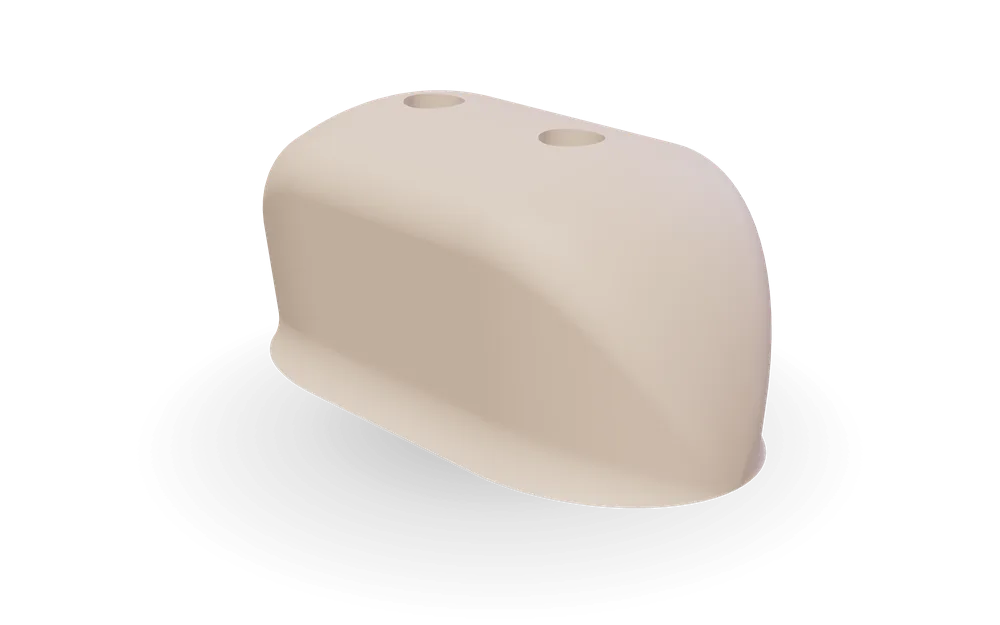
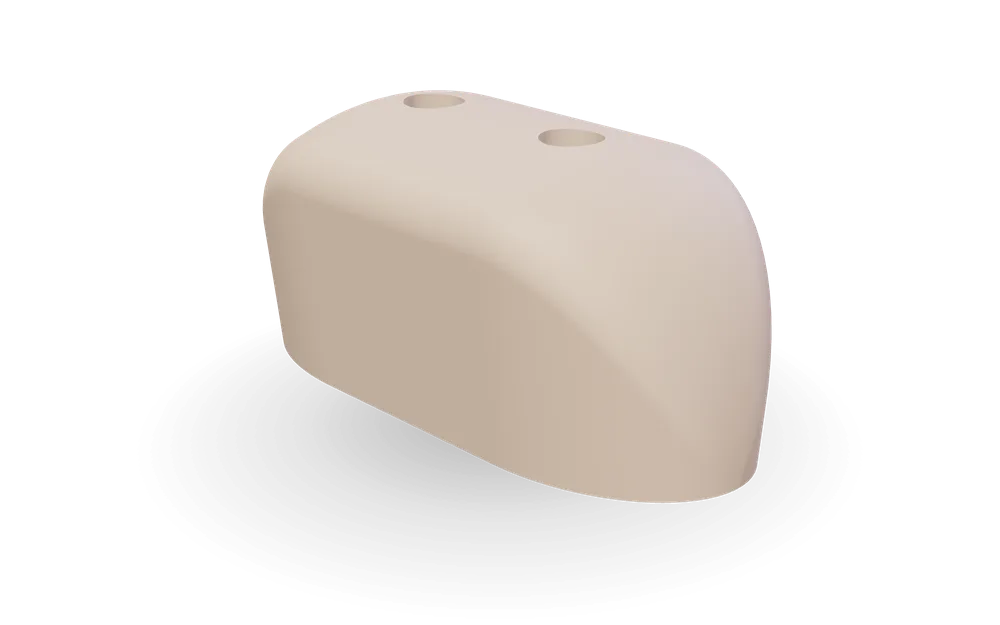
Pinch Lab: no base flare by default; the sides run straight to the wall
The presets widened the foot of each side into the wall by 4.5 mm (9 on
the Lip pinch), which only added material. Every preset now runs its
sides straight to the wall, and each still builds as written; the Base
flare slider stays for anyone who wants one. The default's e2e fixture
entry, hub card and Open Graph image are re-rendered.

Claude-Session: https://claude.ai/code/session_01Mty9BUD25fHjJqKGVXsX42

Changed region(s): [[0.248, 0.5168, 0.682, 0.8208], [0.744, 0.6992, 0.775, 0.76]]

diff --git a/src/features/labs/artwork-framing.ts b/src/features/labs/artwork-framing.ts
@@ -34,9 +34,9 @@ export const ARTWORK_FRAMING: Record<
     top: -5.18,
   },
   pinch: {
-    width: 97.36,
-    left: -0.28,
-    top: 1.03,
+    width: 98.78,
+    left: -1.02,
+    top: 0.82,
   },
   "custom-shape": {
     width: 91.05145413870245,

diff --git a/tools/pinch-generator/parameters.py b/tools/pinch-generator/parameters.py
@@ -21,7 +21,7 @@ class Parameters:
     size: float = 100
     height: float = 110
     end_rounding: float = 60
-    base_flare: float = 4.5
+    base_flare: float = 0
     character: float = 0
     seed: int = 0
     # Mounting, shared with the other labs. Automatic mounting takes the
@@ -162,7 +162,7 @@ CONTROLS = [
         15,
         0.5,
         "mm",
-        "Widens the foot of each side into the wall for strength, before overall scale. Zero meets the wall square.",
+        "Widens the foot of each side into the wall, before overall scale. Zero runs the sides straight to the wall.",
     ),
     control(
         "character",
@@ -283,7 +283,6 @@ PRESETS = {
         thumb_angle=13,
         finger_angle=13,
         edge_radius=6.5,
-        base_flare=0,
     ),
     "Lip pinch": replace(
         BASE,
@@ -293,7 +292,6 @@ PRESETS = {
         thumb_angle=-24,
         finger_angle=-24,
         edge_radius=5.5,
-        base_flare=9,
     ),
     "Offset pinch": replace(
         BASE,
@@ -304,7 +302,6 @@ PRESETS = {
         finger_angle=-17,
         offset=40,
         edge_radius=7.5,
-        base_flare=6.5,
     ),
     "Ridged fin": replace(
         BASE,
